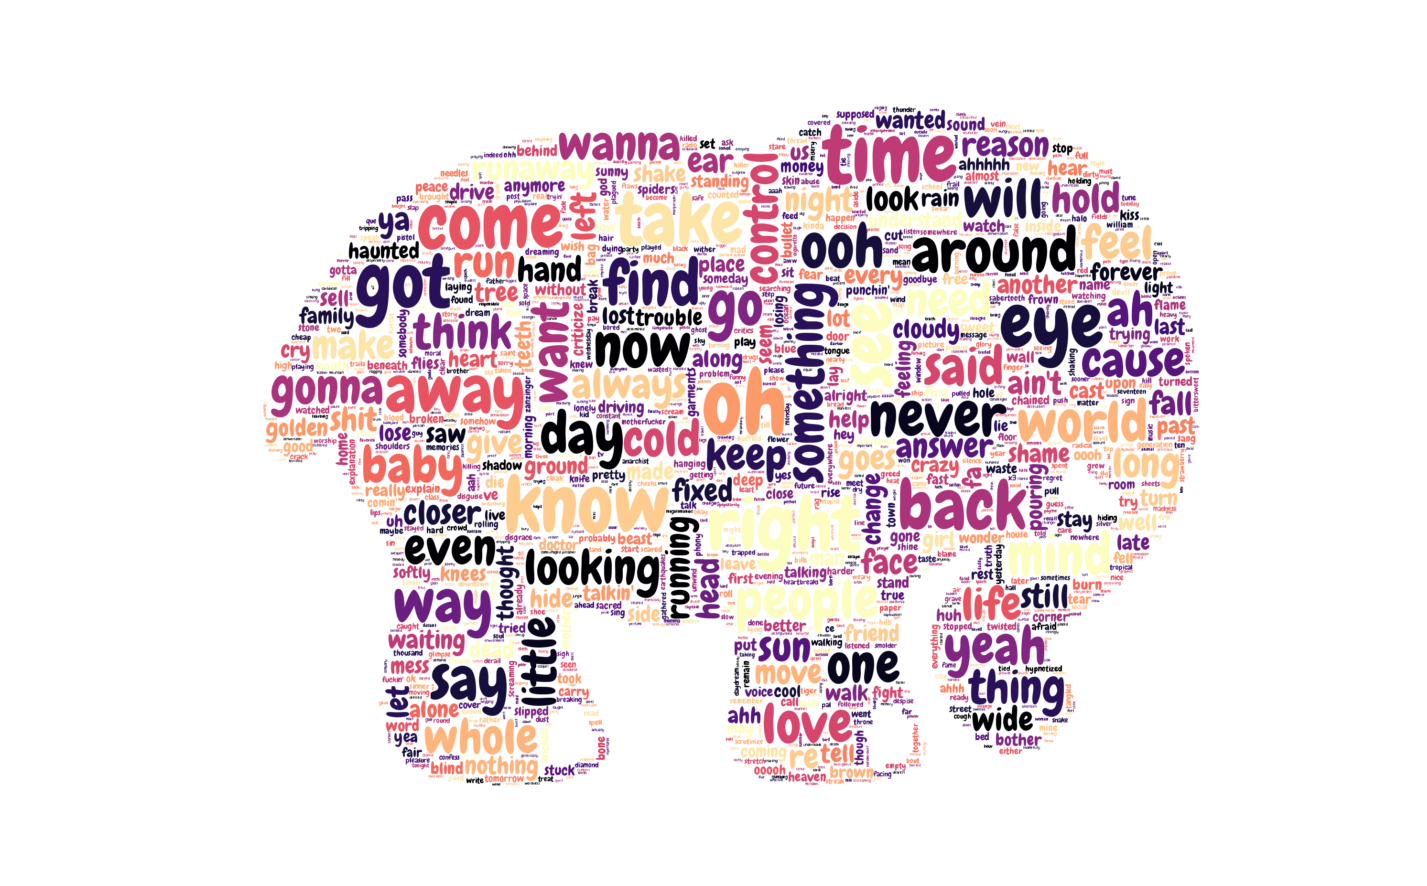
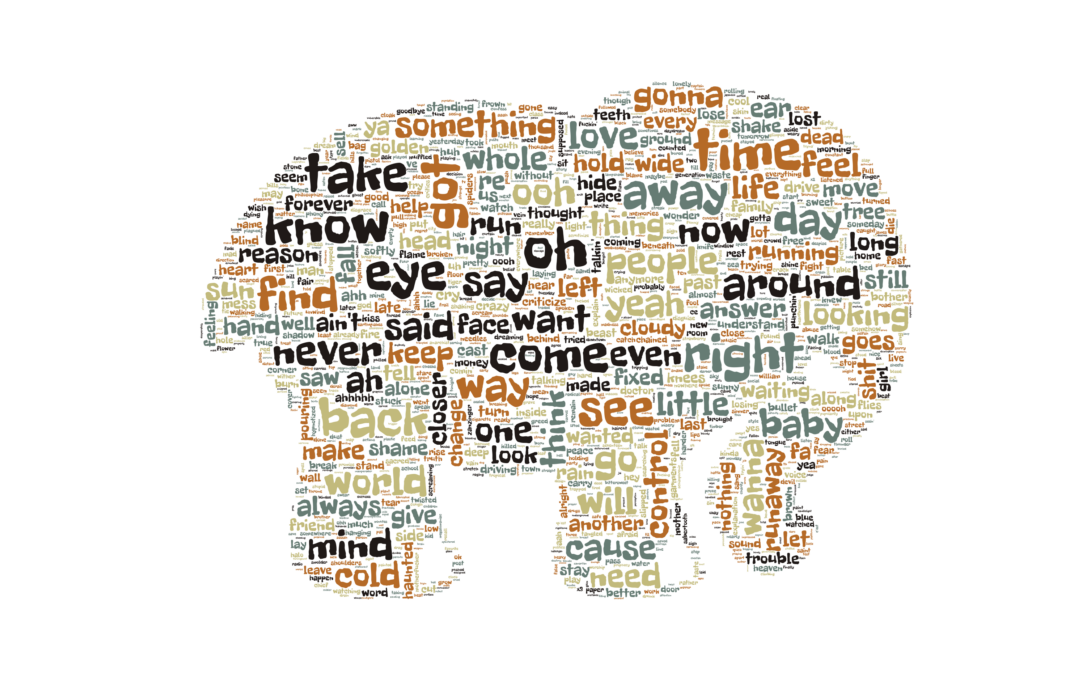
Fixed CtE

diff --git a/makeCloud.py b/makeCloud.py
@@ -15,7 +15,7 @@ from palettable.mycarta import *
 from palettable.tableau import *
 
 def color_func(word, font_size, position, orientation, random_state=None, **kwargs):
-    colorPalette = Tableau_10
+    colorPalette = Moonrise2_4
     return tuple(colorPalette.colors[random.randint(0,len(colorPalette.colors)-1)])
 
 class SimpleGroupedColorFunc(object):
